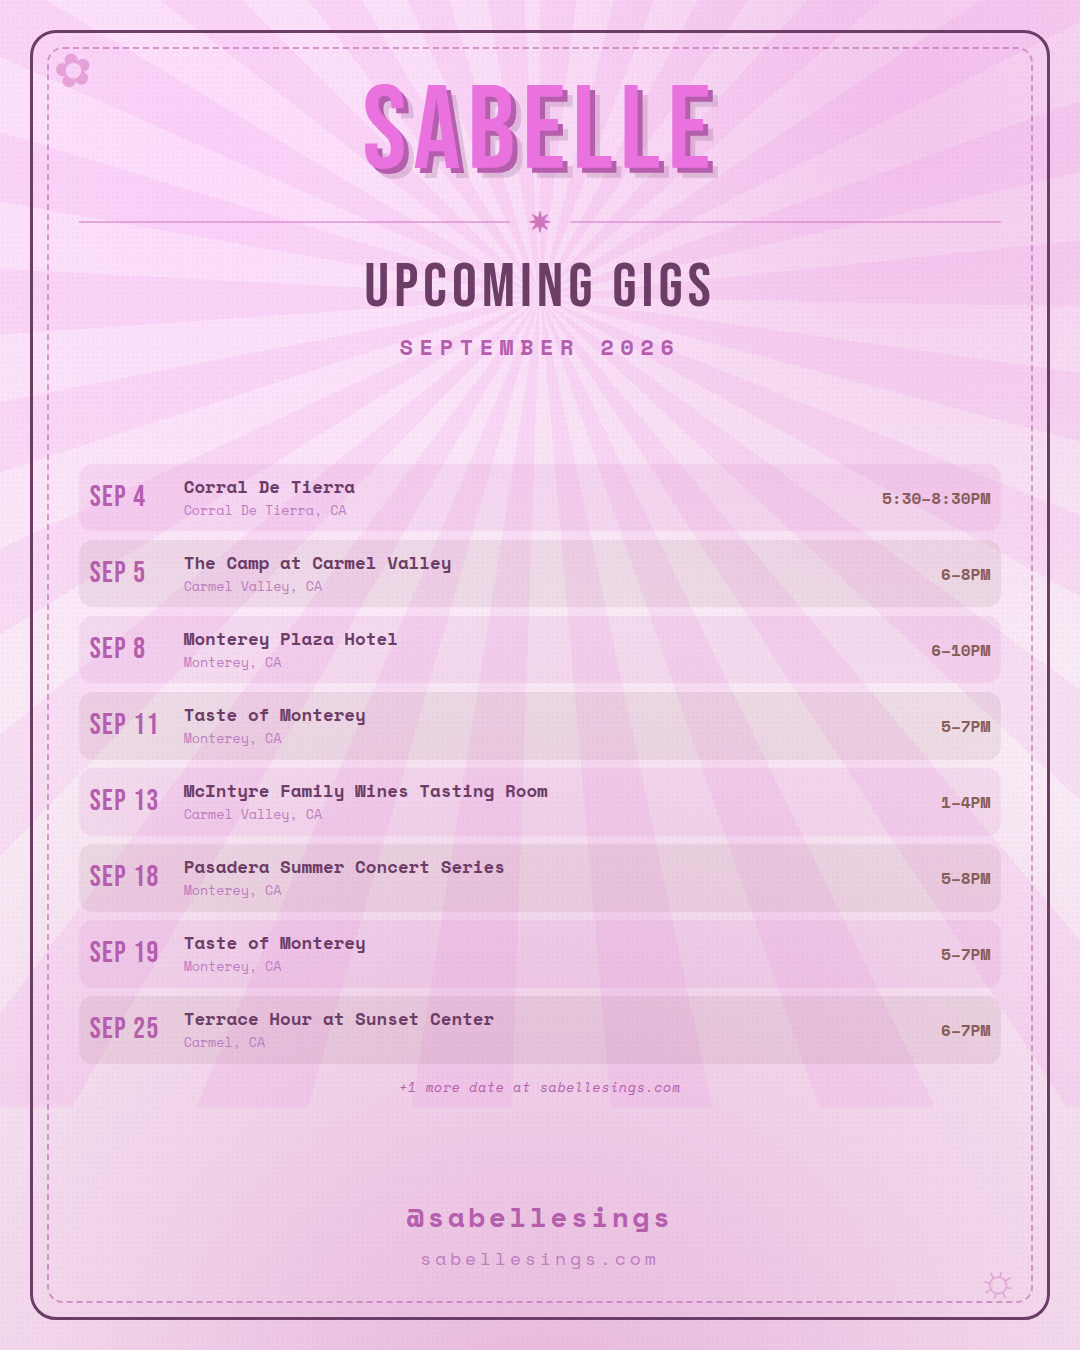
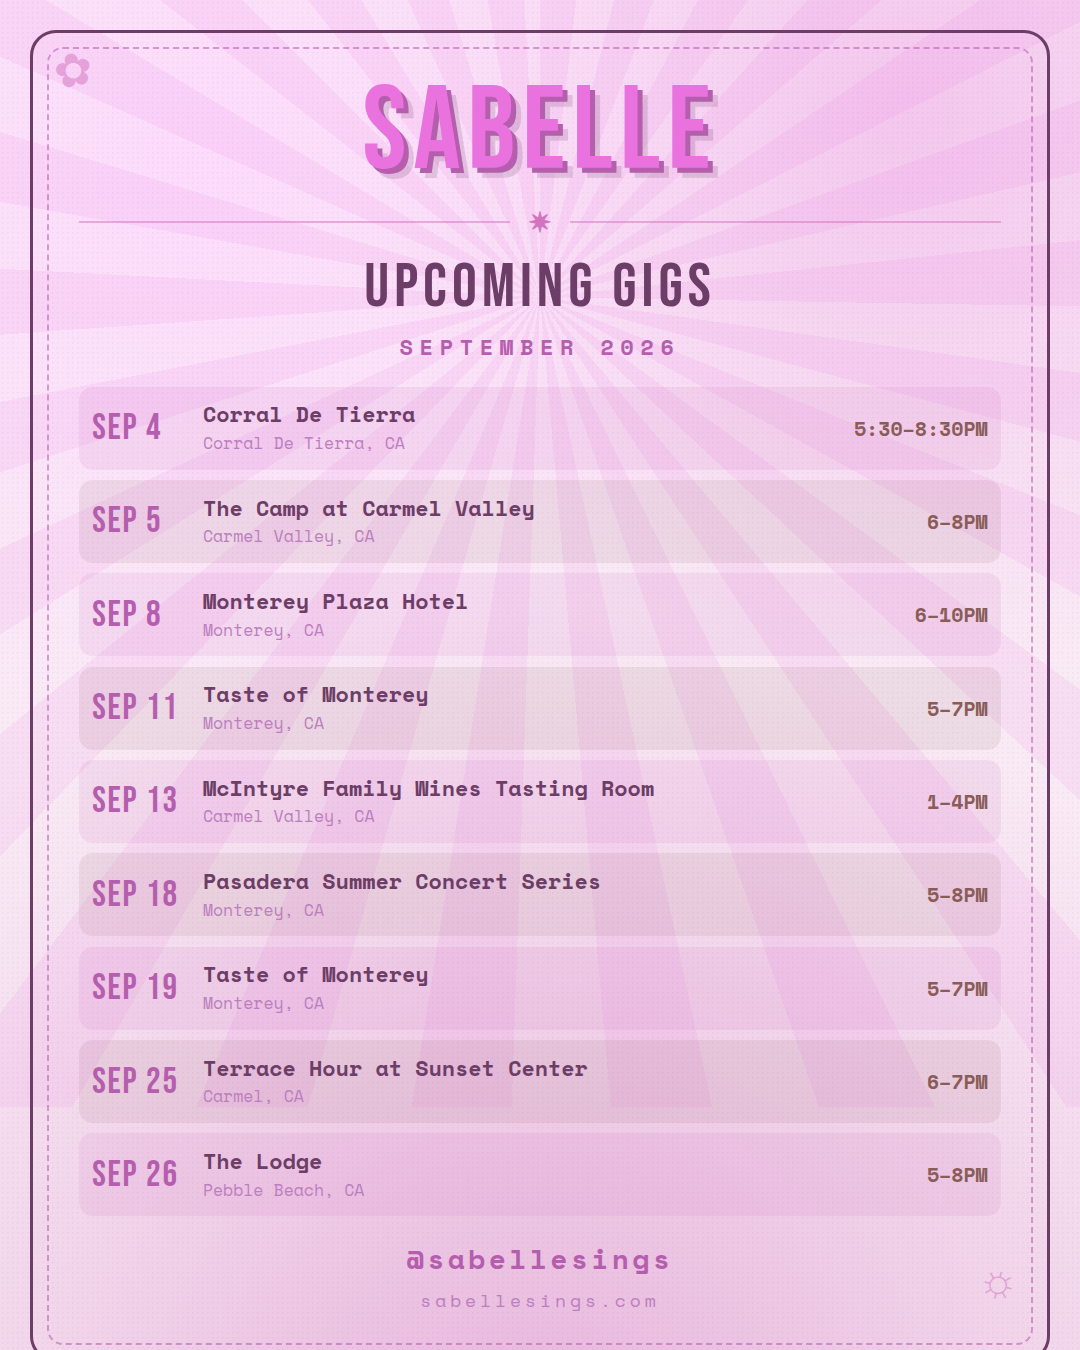
Fit the whole month on the poster instead of dropping dates
September had nine shows and the post said "+1 more" with most of the card
empty. MAX_ROWS was 8, so the ninth was thrown away before the shrink logic got
a say -- and the shrink logic could not have helped anyway, since its scale was
floored at 0.7 and it keyed off the gig count rather than the rows rendered.

Measured what actually fits by rendering each row count in headless Chrome at
descending scales and taking the largest that did not clip the footer. Row
height is very nearly proportional to the scale, so rows * scale is close to
constant: 7.84-8.10 for the post across 9..14 rows, 9.60-9.92 for the story
across 10..20. The new budgets sit just under the tightest of each.

The post now holds 14 dates and the story 20, both verified end to end with the
same clipping test check_cards.py uses. The "+N more" line takes a row of its
own, so it costs one date rather than being free, and the scale is computed
from the rows actually rendered rather than from the gig count.

Claude-Session: https://claude.ai/code/session_013qvfFWFemzSJdDJocT6BYd

diff --git a/gigs/card-post.html b/gigs/card-post.html
@@ -117,7 +117,7 @@ body{ display:flex; align-items:center; justify-content:center; }
   --row-pad:17px; --row-gap:12px; --date-size:42px; --venue-size:25px;
   --city-size:19px; --time-size:23px; --foot-top:22px; --handle-size:28px;
   --site-size:18px; --petal:46px; }
-.card{ --date-size:29.4px; --venue-size:17.5px; --city-size:13.3px; --time-size:16.1px; --row-pad:11.9px; --row-gap:8.4px; }</style>
+.card{ --date-size:36.4px; --venue-size:21.7px; --city-size:16.5px; --time-size:19.9px; --row-pad:14.7px; --row-gap:10.4px; }</style>
 </head><body>
   <div class="card">
     <div class="petals p1">✿</div>
@@ -138,7 +138,7 @@ body{ display:flex; align-items:center; justify-content:center; }
         <li class="gig"><span class="g-date">SEP 18</span><span class="g-mid"><span class="g-venue">Pasadera Summer Concert Series</span><span class="g-city">Monterey, CA</span></span><span class="g-time">5–8PM</span></li>
         <li class="gig"><span class="g-date">SEP 19</span><span class="g-mid"><span class="g-venue">Taste of Monterey</span><span class="g-city">Monterey, CA</span></span><span class="g-time">5–7PM</span></li>
         <li class="gig"><span class="g-date">SEP 25</span><span class="g-mid"><span class="g-venue">Terrace Hour at Sunset Center</span><span class="g-city">Carmel, CA</span></span><span class="g-time">6–7PM</span></li>
-        <li class="more">+1 more date at sabellesings.com</li>
+        <li class="gig"><span class="g-date">SEP 26</span><span class="g-mid"><span class="g-venue">The Lodge</span><span class="g-city">Pebble Beach, CA</span></span><span class="g-time">5–8PM</span></li>
       </ul>
       <div class="foot">
         <div class="handle">@sabellesings</div>

diff --git a/gigs/index.html b/gigs/index.html
@@ -35,13 +35,13 @@
   <div class="cards">
     <div class="col">
       <h2>Instagram Post — 1080×1350</h2>
-      <img src="gig-card.png?v=20260902115438" alt="Sabelle upcoming gigs poster">
-      <a class="btn" href="gig-card.png?v=20260902115438" download>Download post</a>
+      <img src="gig-card.png?v=20260902121350" alt="Sabelle upcoming gigs poster">
+      <a class="btn" href="gig-card.png?v=20260902121350" download>Download post</a>
     </div>
     <div class="col">
       <h2>Story — 1080×1920</h2>
-      <img src="gig-card-story.png?v=20260902115438" alt="Sabelle upcoming gigs story graphic">
-      <a class="btn" href="gig-card-story.png?v=20260902115438" download>Download story</a>
+      <img src="gig-card-story.png?v=20260902121350" alt="Sabelle upcoming gigs story graphic">
+      <a class="btn" href="gig-card-story.png?v=20260902121350" download>Download story</a>
     </div>
   </div>
 

diff --git a/scripts/render_gig_card.py b/scripts/render_gig_card.py
@@ -308,20 +308,35 @@ ROW_VARS = {
     "row-gap": (12, 18),
 }
 
-# Past this many rows a poster is unreadable, and shrinking text further stops
-# helping. Show the first N and point at the site for the rest.
-MAX_ROWS = {False: 8, True: 12}  # keyed by is_story
+# All three numbers below were measured in headless Chrome by rendering each row
+# count at descending scales and taking the largest that did not clip the
+# footer -- not guessed. check_cards.py re-checks the result on every build.
+#
+# Rows that fit at full size:
+FULL_SIZE_ROWS = {False: 8, True: 9}  # keyed by is_story
 
-# Rows start shrinking past this count, before the hard cap kicks in.
-SHRINK_ABOVE = {False: 6, True: 9}
+# Row height came out very nearly proportional to the scale, so rows * scale is
+# close to constant. Measured 7.84-8.10 across 9..14 rows for the post and
+# 9.60-9.92 across 10..20 for the story; these sit just under the tightest of
+# each, leaving margin for a font or browser update moving the metrics.
+FIT_BUDGET = {False: 7.8, True: 9.5}
+
+# The most rows the card can hold at all: 14 rows land at scale 0.56 on the
+# post, 20 at 0.48 on the story. A month only gets sent to the website when it
+# genuinely will not fit, and even then the "+N more" line takes one of these
+# slots rather than being extra.
+MAX_ROWS = {False: 14, True: 20}
 
 
-def scale_for_count(n, story):
-    """Shrink rows when the list is long so the card never overflows."""
-    limit = SHRINK_ABOVE[story]
-    if n <= limit:
+def scale_for_count(rows, story):
+    """Shrink the rows so that `rows` of them fit inside the card.
+
+    Takes the number of rows actually rendered -- the "+N more" line included,
+    since it takes up the list just like a gig does.
+    """
+    if rows <= FULL_SIZE_ROWS[story]:
         return ""
-    k = max(0.7, limit / n)
+    k = FIT_BUDGET[story] / rows
     idx = 1 if story else 0
     decls = " ".join(
         f"--{name}:{base[idx] * k:.1f}px;" for name, base in ROW_VARS.items()
@@ -331,7 +346,12 @@ def scale_for_count(n, story):
 
 def card_html(gigs, theme, story=False):
     cap = MAX_ROWS[story]
-    shown, hidden = gigs[:cap], max(0, len(gigs) - cap)
+    if len(gigs) <= cap:
+        shown, hidden = gigs, 0
+    else:
+        # The "+N more" line needs a row of its own, so it costs one gig.
+        shown, hidden = gigs[: cap - 1], len(gigs) - (cap - 1)
+    rendered = len(shown) + (1 if hidden else 0)
     if shown:
         more = (
             f'\n        <li class="more">+{hidden} more '
@@ -352,7 +372,7 @@ def card_html(gigs, theme, story=False):
 <link rel="preconnect" href="https://fonts.googleapis.com">
 <link rel="preconnect" href="https://fonts.gstatic.com" crossorigin>
 <link href="{FONTS}" rel="stylesheet">
-<style>{theme_css(theme)}{CARD_CSS}{vars_css}{scale_for_count(len(gigs), story)}</style>
+<style>{theme_css(theme)}{CARD_CSS}{vars_css}{scale_for_count(rendered, story)}</style>
 </head><body>
   <div class="card">
     <div class="petals p1">✿</div>

diff --git a/GIGS.md b/GIGS.md
@@ -78,9 +78,10 @@ fetch this".
 That means she should always grab posters from the buttons on `/gigs/`, not
 from a bookmarked image URL.
 
-When there are more than 8 shows, the post shows the first 8 and adds
-"+N more dates at sabellesings.com" rather than shrinking the text to nothing.
-The `/gigs/` page always lists every date.
+The rows shrink to fit, so a busy month still goes on one graphic: the post
+holds **14 dates** and the story **20**, which is more than she has ever played
+in a month. Only past that does the poster show what it can and add "+N more
+dates at sabellesings.com". The `/gigs/` page always lists every date.
 
 ### The colours change every month
 
